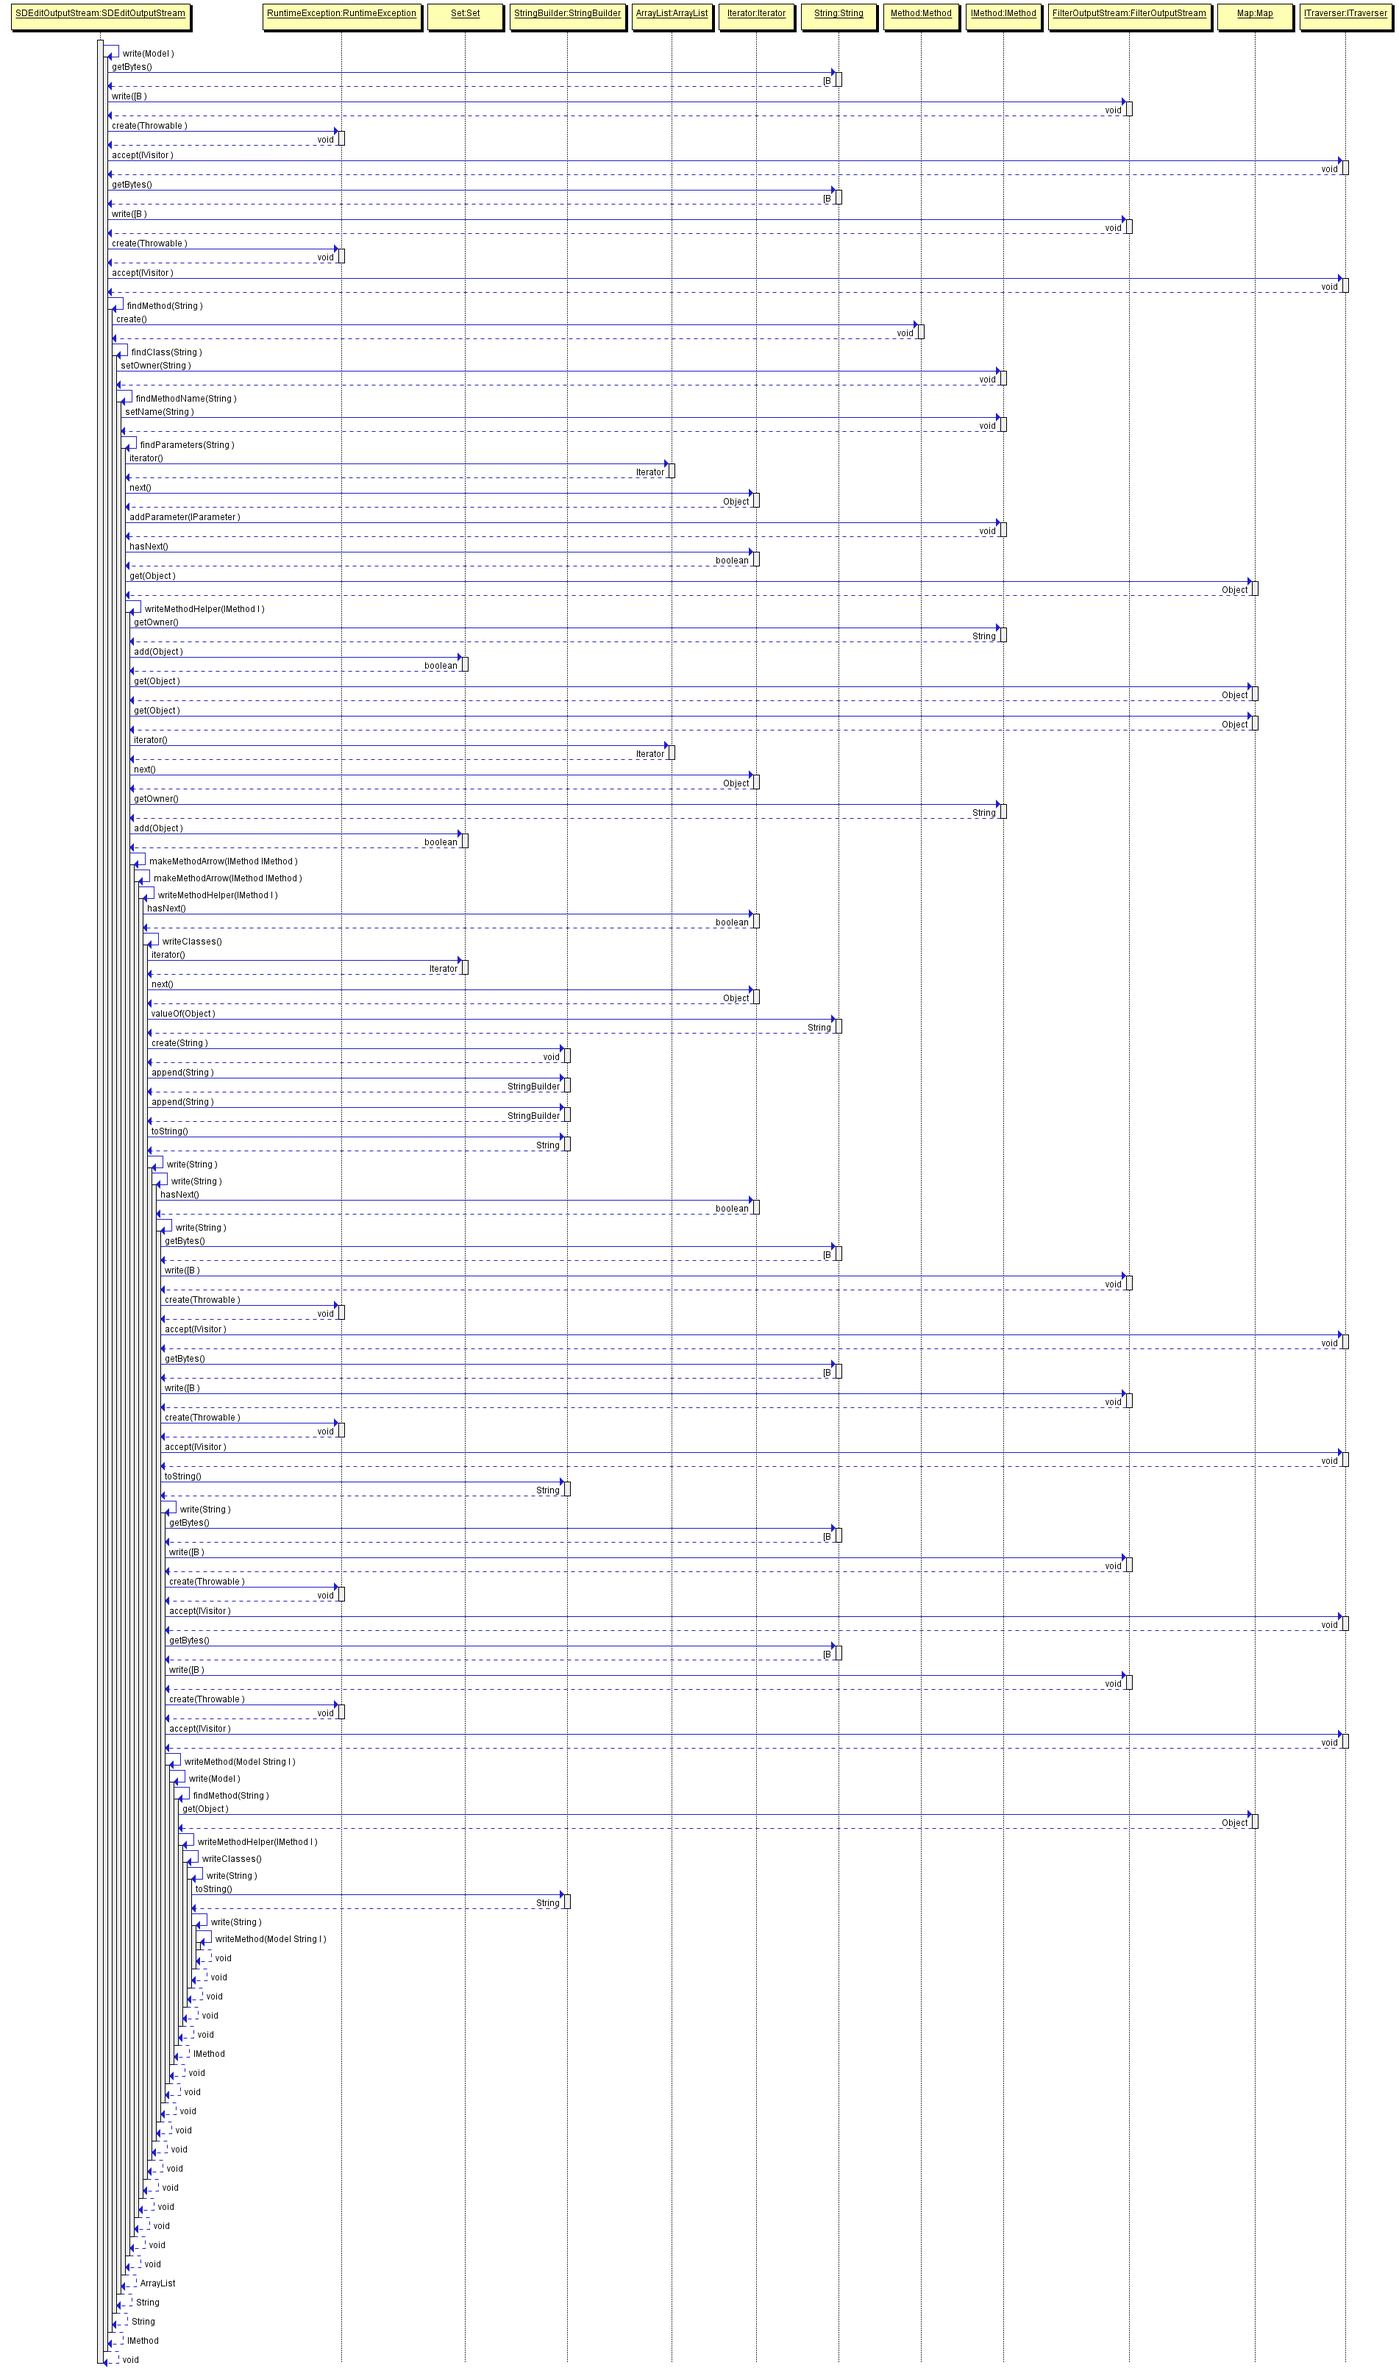
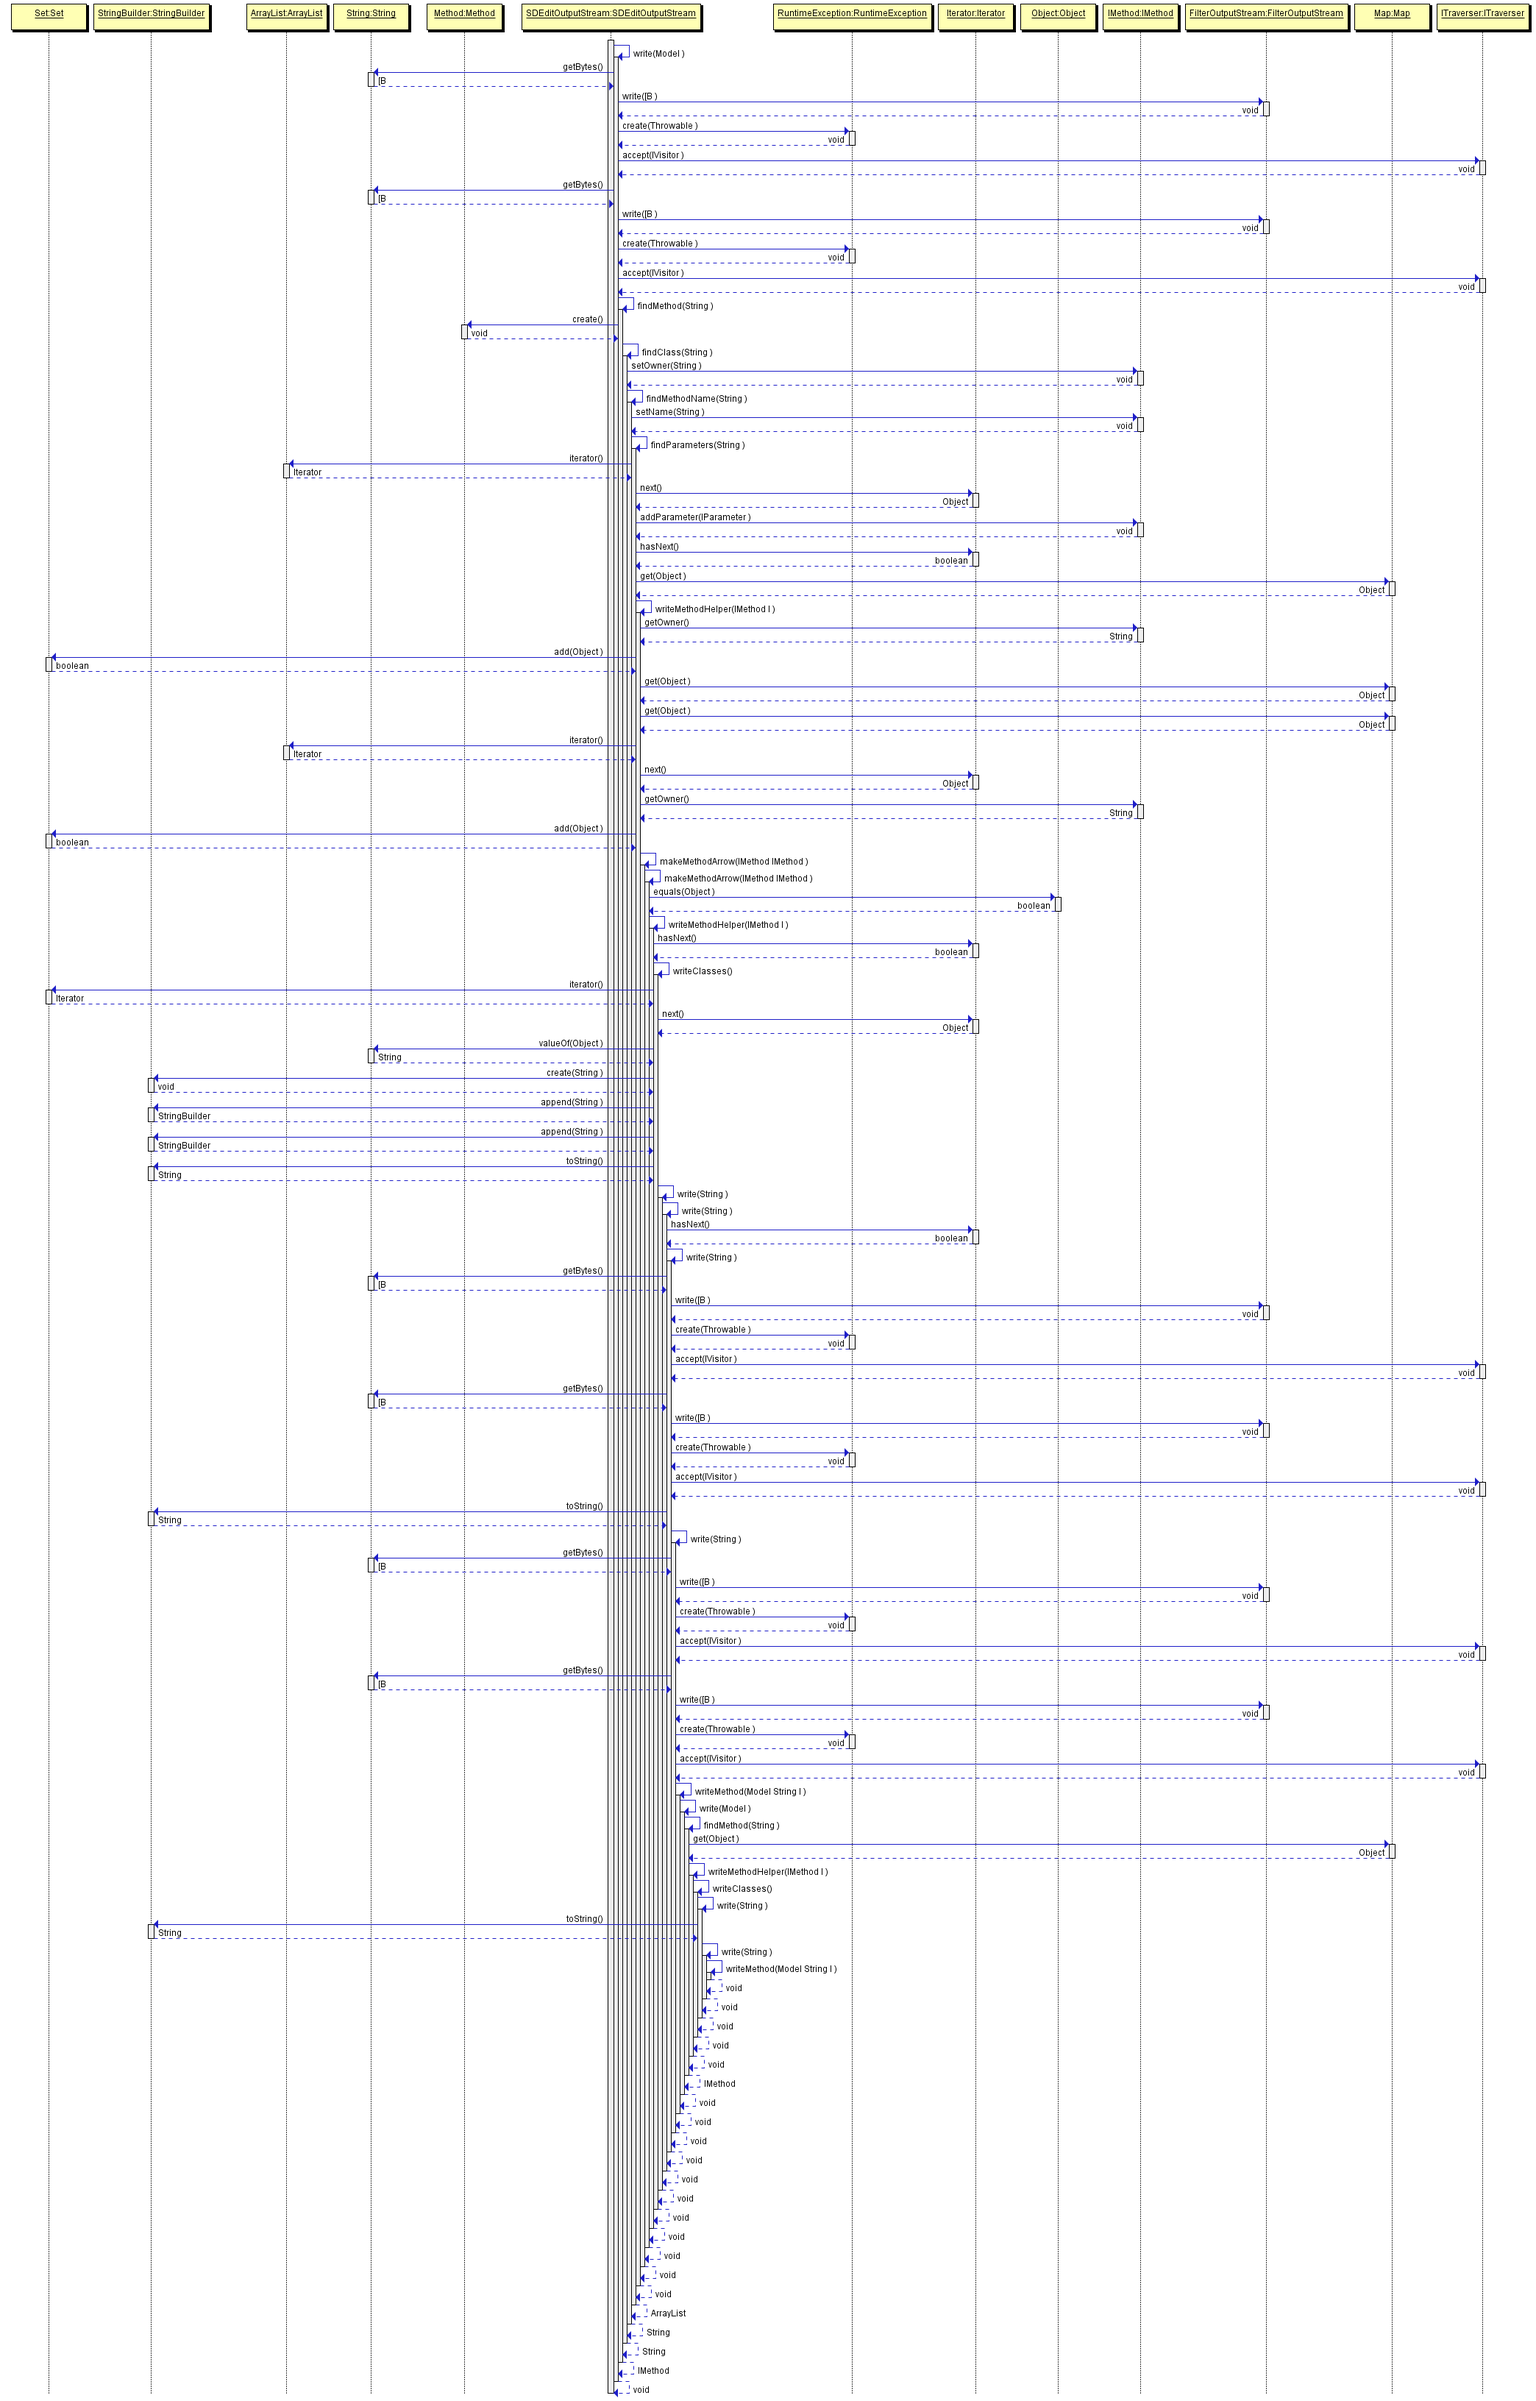
Added fixed pictures

diff --git a/CSSE374-Eleven/src/src/problem/asm/DesignParser.java b/CSSE374-Eleven/src/src/problem/asm/DesignParser.java
@@ -32,7 +32,7 @@ public class DesignParser {
 		GraphVizOutputStream gvos = new GraphVizOutputStream(new FileOutputStream("GVOuput.txt"));
 		SDEditOutputStream sdeos = new SDEditOutputStream(new FileOutputStream("SDEditOutput.txt"));
 
-		Scanner scanner = new Scanner(new File(args[0]));
+		Scanner scanner = new Scanner(new File("DPconfig.txt"));
 		scanner.useDelimiter("\r\n");
 		ArrayList<String> argumentsAL = new ArrayList<String>();
 		while (scanner.hasNext()) {
@@ -47,7 +47,7 @@ public class DesignParser {
 			IClass clazz = parse(className, model);
 			model.addClass(clazz);
 		}
-		sdeos.writeMethod(model, "java.util.Collections.shuffle(List<T> list)", 2);
+		sdeos.writeMethod(model, "src.problem.outputvisitor.SDEditOutputStream.writeMethod()", 3);
 		sdeos.close();
 		gvos.close();
 	}
